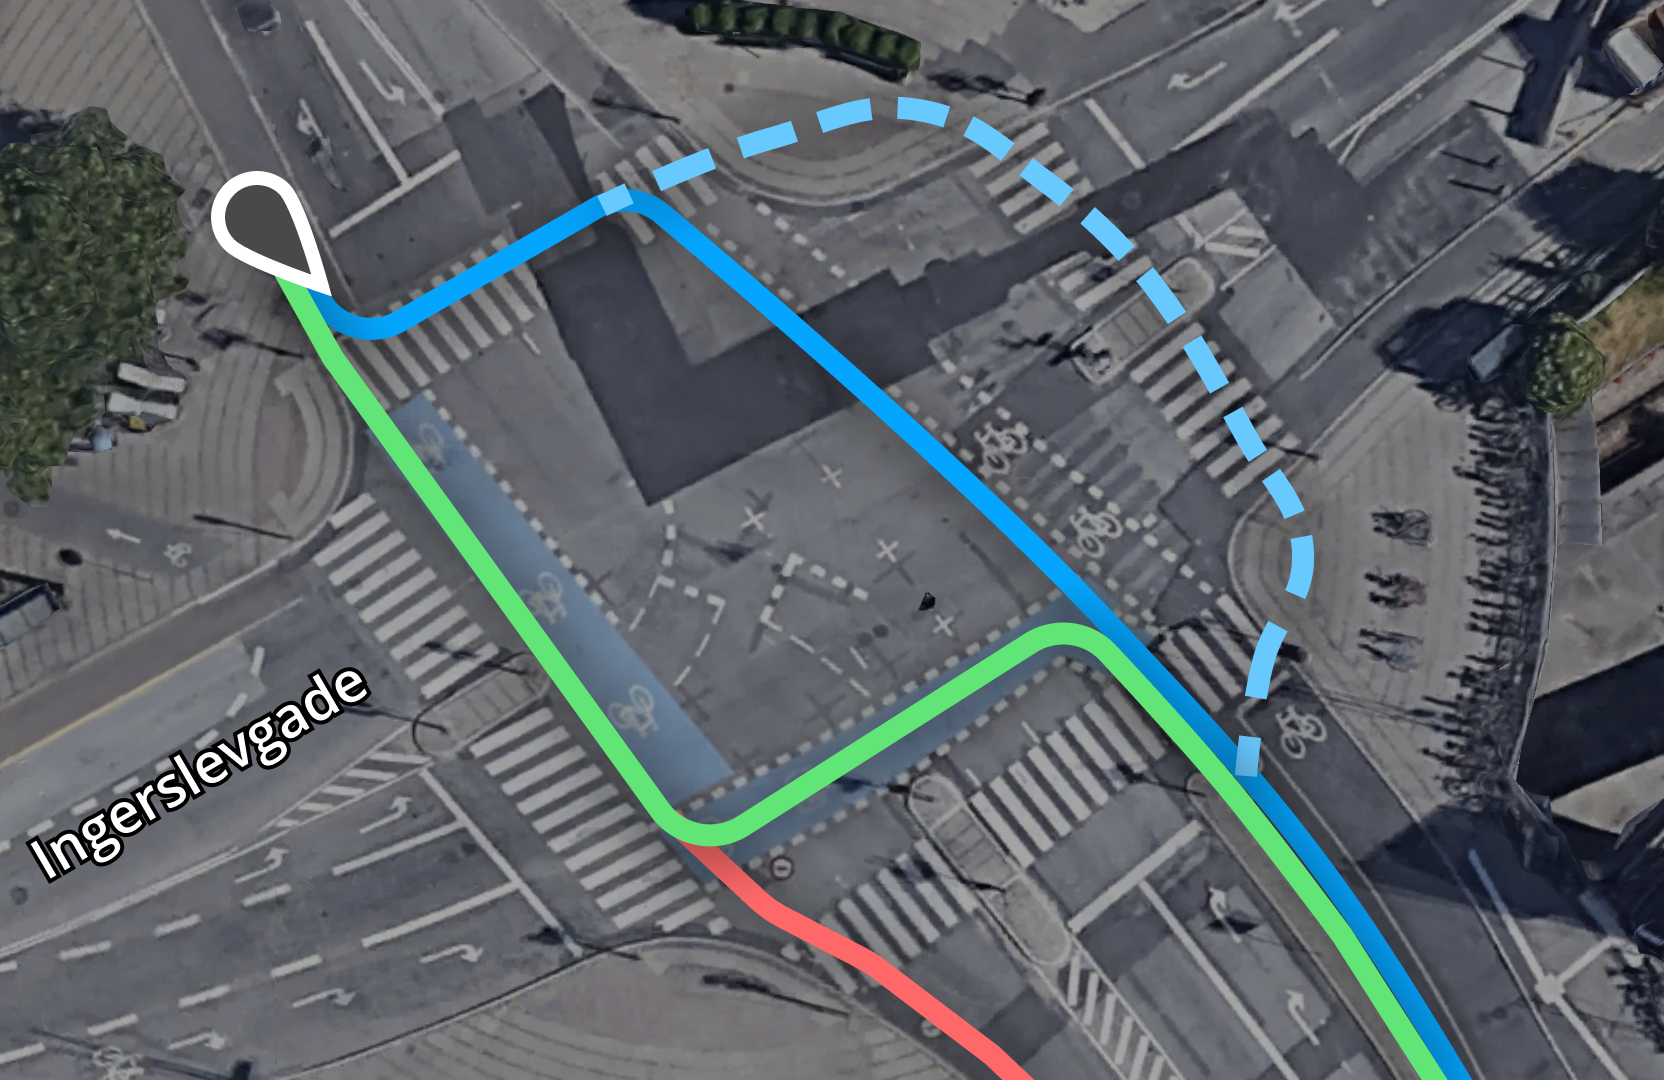
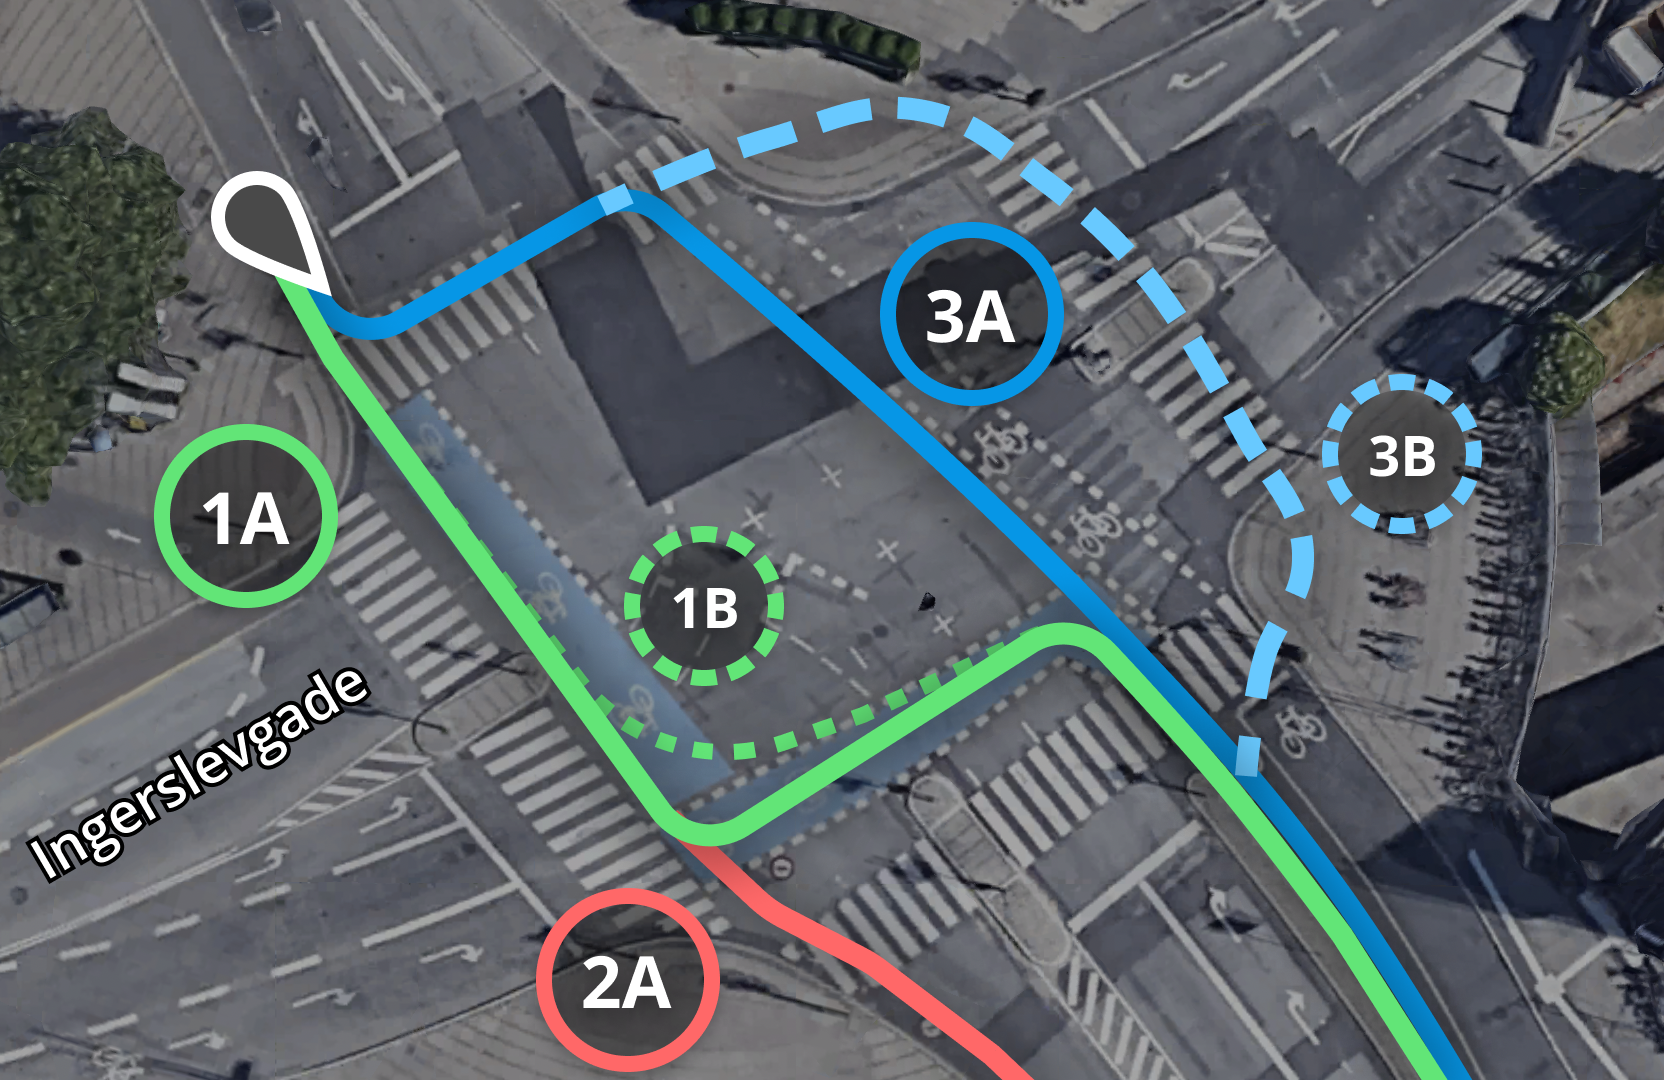
Intro to ODC moved + new desire path img

diff --git a/report/sections/proposal.tex b/report/sections/proposal.tex
@@ -1,6 +1,7 @@
- While on-site assertion of an intersection is plausible, the scope of a single observer is limited, as one can only keep track of 
- so many cyclists at once. Likewise with analyzing recorded video footage, while not bound by time, is still a time-consuming process, 
- especially as the views of cyclists can be obstructed by other passing vehicles or permanent fixtures.
+While on-site assertion of an intersection is plausible, the scope of a single observer is limited, as one can only keep track of 
+so many cyclists at once. Likewise with analyzing recorded video footage, while not bound by time, is still a time-consuming process, 
+especially as the views of cyclists can be obstructed by other passing vehicles or permanent fixtures. Previous desire line 
+studies conducted by Copenhagenize were done by keeping counts of hand-written references to trajectories (figure \ref{manual_desire_line}).
 \ \\
 
 \raggedbottom
@@ -9,14 +10,52 @@
 \includegraphics[width=1.0\columnwidth]{desire_line_counts} 
 \end{tabular}
 \captionof{figure}{Manual desire line counts (Copenhagenize, 2014)}
+\label{manual_desire_line}
 \
 
-The latter issue of keeping track of unique cyclists as their view is temporally obstructed is one also faced by 
-object tracking algorithms in video. In theory, a top-down overhead view, overlooking from the center of the intersection would be optimal for minimizing obstruction.
-However, the height required for such a recording setup as well as the lack of permanent fixtures makes this approach very impractical. 
-Current state-of-the-art object detection algorithms (e.g.~YOLO) also perform worse at categorizing objects, especially bicycles, 
-using an overhead view compared to a semi-frontal view. We therefore propose deploying a multi-camera setup, overlooking an intersection from
-multiple sides.
+\subsection{Initial tests with OpenDataCam}
+As a baseline, we deployed an OpenDataCam setup using pre-recorded footage from the Dybbølsbro intersection in Copenhagen.
+Our setup ran on an Nvidia Jetson Xavier NX combined with two Raspberry Pis, used for filming/streaming video from the intersection.
+
+Our goal was to extract pre-defined desire lines using the counting line functionality. We did this by drawing an initial 
+'base line' followed by two (or more) additional counting lines, which would allow us to branch cyclists into multiple segments. Inspecting the
+overlap of unique cyclists who passed both the base line and one (or more) of the branching lines would yield which path
+they took through the intersection. 
+\ \\
+
+\ \\
+\raggedbottom
+\noindent
+\begin{tabular}{@{}cc}
+\includegraphics[width=1.0\columnwidth]{base_line} 
+\end{tabular}
+\captionof{figure}{'base line' (pink) and branching lines (orange)}
+\ \\
+
+However, this approach was limited by the poor performance of the detection of cyclists implemented in the current 
+version of OpenDataCam (YOLOv4). Due to the intermittent identification of cyclists, the tracking algorithm would constantly 
+re-identify the same cyclists as new ones. Thus, even when the same cyclist passed both the 'base line' and one of the 
+branching lines, they would not be included in the desire line count.
+\ \\
+ 
+We discuss the findings derived from OpenDataCam in our case study in later sections of the report.
+
+\subsection{improvement}
+We wish to improve and extend the functionality of OpenDataCam centered around cyclists and intersections.
+Using a newer version of YOLO for object detection will result better tracking accuracy for cyclists, 
+and thus more complete trajectories.
+While OpenDataCam emphasizes real-time metrics on traffic, we specifically work with 'post-processed' footage 
+form intersections, and thus we can apply further assumptions about the tracking behavior to improve accuracy.
+\ \\
+
+The aforementioned issue of keeping track of unique cyclists as their view is temporally obstructed is one also faced by 
+object tracking algorithms in video. In theory, a top-down overhead view, overlooking from the center of the 
+intersection would be optimal for minimizing obstruction.
+However, the height required for such a recording setup as well as the lack of permanent fixtures makes this 
+approach very impractical. 
+Current state-of-the-art object detection algorithms (e.g.~YOLO) also perform worse at categorizing objects, 
+especially bicycles, using an overhead view compared to a semi-frontal view. 
+We therefore propose deploying a multi-camera setup, overlooking an intersection from multiple sides.
 \ \\
 
 A top-level areal view can help identify rule compliance through the intersection by comparing

diff --git a/report/sections/background.tex b/report/sections/background.tex
@@ -53,7 +53,7 @@ This perspective is an important supplement to the former \textit{river} as subt
  signal agreement or evasion.
 
  % -----------------------------------------------------------------------------------
-\subsubsection{Case study}
+\subsubsection{Mobilities in 'situ'}
 \textit{Study of mobilities in 'situ'} (\cite{situ}) uses the above framework as part of a case study involving cycling infrastructure in 
 Copenhagen and Amsterdam. Quantitative data (as part of the \textit{river} perspective) was obtained by filming cyclists and conducting 
 'desire lines analysis' (\cite{cva}) to gain a structured overview of the behavior of cyclists and intersections. 
@@ -89,29 +89,3 @@ Using the interface, a user can draw bi-directional counting lines, which, when 
 increments a counter and keeps track of the object's identifier. Apart from counting functionality, the app also offers the trajectories of uniquely identified objects. 
 
 \raggedbottom
-\subsubsection{Application}
-As a baseline, we deployed an OpenDataCam setup using pre-recorded footage from the Dybbølsbro intersection in Copenhagen.
-Our setup ran on an Nvidia Jetson Xavier NX combined with two Raspberry Pis, used for filming/streaming video from the intersection.
-
-Our goal was to extract pre-defined desire lines using the counting line functionality. We did this by drawing an initial 
-'base line' followed by two (or more) additional counting lines, which would allow us to branch cyclists into multiple segments. Inspecting the
-overlap of unique cyclists who passed both the base line and one (or more) of the branching lines would yield which path
-they took through the intersection. 
-\ \\
-
-\ \\
-\raggedbottom
-\noindent
-\begin{tabular}{@{}cc}
-\includegraphics[width=1.0\columnwidth]{base_line} 
-\end{tabular}
-\captionof{figure}{'base line' (pink) and branching lines (orange)}
-\ \\
-
-However, this approach was limited by the poor performance of the detection of cyclists implemented in the current 
-version of OpenDataCam (YOLOv4). Due to the intermittent identification of cyclists, the tracking algorithm would constantly 
-re-identify the same cyclists as new ones. Thus, even when the same cyclist passed both the 'base line' and one of the 
-branching lines, they would not be included in the desire line count.
-\ \\
-
-We discuss the findings derived from OpenDataCam in our case study in later sections of the report.

diff --git a/report/sections/methodology.tex b/report/sections/methodology.tex
@@ -151,9 +151,9 @@ This is shown in figure \ref{joined_distortion}, where trajectories detected fro
 \label{joined_distortion}
 \
 
-To correct for the distortion we make use of OpenCVs (\cite{noauthor_opencv/opencv_2021}) camera calibration toolbox.
+To correct for the distortion we made use of OpenCVs (\cite{noauthor_opencv/opencv_2021}) camera calibration toolbox.
 
-In order to correct for distortion, we need to find the camera matrix and distortion coefficients. To do this, we used the calibrate script provided with OpenCV,
+In order to correct for distortion, the camera matrix and distortion coefficients are needed. To do this, we used the calibrate script provided with OpenCV,
 passing several snapshots of a calibration object with the device to be calibrated. The calibration object is a black-white chessboard pattern.
 We passed 20+ sample images of the calibration object in different orientations, angles and positions in the frame. OpenCV processed the images and
 returned a camera matrix and the distortion coefficients, used for correcting the distortion of the frames.
